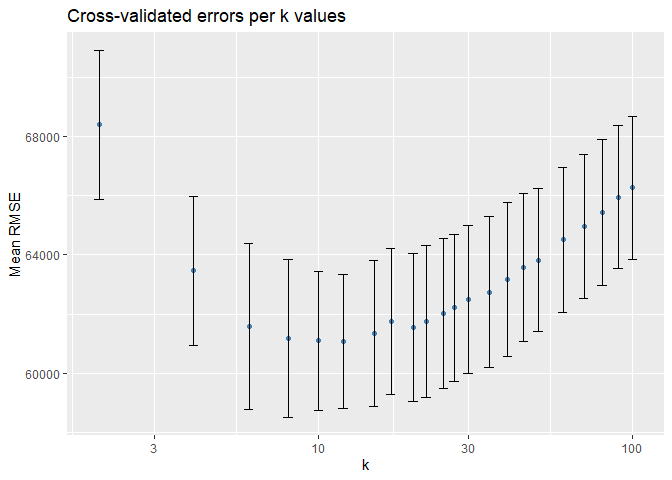
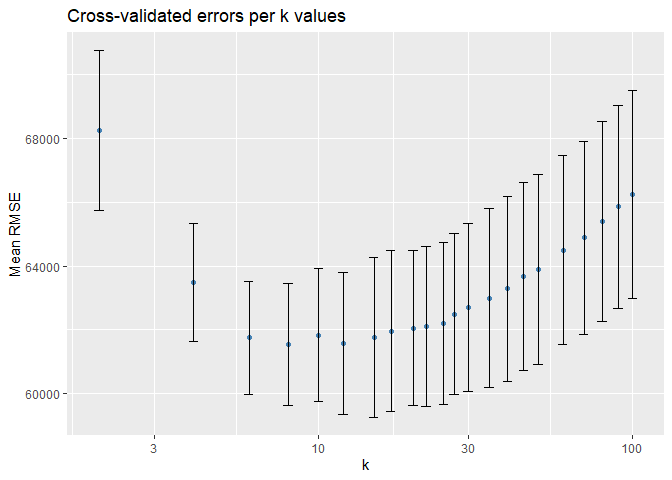
question 1 update

diff --git a/Homework-2/PS2.md b/Homework-2/PS2.md
@@ -19,9 +19,11 @@ prediction model of house prices:
 
 -   Linear model: This approach try to estimate coefficients for the
     following linear model
-    *p**r**i**c**e* = *β*<sub>0</sub> + *β*<sub>1</sub>*x*<sub>1</sub> + .... + *β*<sub>1</sub>*x*<sub>*p*</sub> + *u*
-    where (*x*<sub>1</sub>,...,*x*<sub>*p*</sub>) are houses features
-    plus transformations and interactions of this features.
+
+*p**r**i**c**e* = *β*<sub>0</sub> + *β*<sub>1</sub>*x*<sub>1</sub> + .... + *β*<sub>1</sub>*x*<sub>*p*</sub> + *u*
+
+where (*x*<sub>1</sub>,...,*x*<sub>*p*</sub>) are houses features plus
+transformations and interactions of this features.
 
 -   K-nearest neighbors regression: In this method, given a value for K
     and a set of values for the features
@@ -45,12 +47,12 @@ evaluated by checking the root mean square error (RMSE).
 
 Among the K-nearest neighbors regressions, the k-value associated with
 the lowest cross-validated error (mean of the Root Mean Squared Error)
-is k=10. The cross-validated error for k=10 is $61,968 with a standard
-error of 1,667 dollars.
+is k=10. The cross-validated error for k=10 is $61,010 with a standard
+error of 1,384 dollars.
 
 That last result compares poorly against the cross-validated error of
 the best linear model. In the case of this linear model, the cross
-validated error is $56,669 with a standard error of 1,451 dollars.
+validated error is $57,068 with a standard error of 1,903 dollars.
 
 In conclusion, the results have shown that the linear model has the best
 performance among these two methods according to the k-fold cross
@@ -149,48 +151,29 @@ as the one with lowest cross-validated errors. The best linear model has
 43 coefficients and the following table presents the estimated
 coefficients for this model.
 
-                       (Intercept) | lotSize |  
-                      1.339703e+05 | -2.434482e+03 |  
-                          bedrooms | fuelelectric |  
-                      5.579980e+03 | -2.523318e+04 |  
-                           fueloil | newConstructionNo |  
-                      3.914479e+04 | 3.214339e+04 |  
-                      centralAirNo | waterfrontNo |  
-                     -1.349244e+04 | -9.738634e+04 |  
-                             rooms | fireplaces |  
-                      2.470676e+03 | 1.892046e+04 |  
-                        livingArea | pctCollege |  
-                      5.868298e+01 | -4.862284e+02 |  
-                               age | bathrooms |  
-                     -2.081983e+03 | 1.363895e+04 |  
-            heatinghot water/steam | heatingelectric |  
-                      2.707111e+04 | 6.345186e+03 |  
-                              age2 | I(age^2) |  
-                     -3.882054e+04 | -2.508183e+00 |  
-                  lotSize:bedrooms | lotSize:fuelelectric |  
-                      4.384200e+03 | 6.889665e+03 |  
-                   lotSize:fueloil | bedrooms:fuelelectric |  
-                     -2.395283e+03 | 6.277175e+03 |  
-                  bedrooms:fueloil | rooms:livingArea |  
-                     -1.274805e+04 | 1.764660e+00 |  
-                    bedrooms:rooms | fireplaces:landValue |  
-                     -1.181118e+03 | -2.466258e-01 |  
-             livingArea:fireplaces | fireplaces:pctCollege |  
-                      1.529200e+01 | -5.747540e+02 |  
-              livingArea:landValue | livingArea:heatinghot water/steam
-|  
-                     -2.689740e-04 | -1.917907e+01 |  
-        livingArea:heatingelectric | landValue:pctCollege |  
-                     -1.232713e+01 | 1.334857e-02 |  
-                    pctCollege:age | age:sewerpublic/commercial |  
-                      1.427984e+01 | 3.632516e+02 |  
-                     age:sewernone | landValue:bathrooms |  
-                      3.994448e+03 | 2.855780e-01 |  
-  sewerpublic/commercial:bathrooms | sewernone:bathrooms |  
-                     -4.912088e+03 | -1.701781e+04 |  
-                         age:age2 | lotSize:landValue |  
-                      1.546965e+03 | -1.263039e-01 |
-
+|:———————————-:|:———————————-:|  
+| (Intercept) | lotSize | | 1.339703e+05 | -2.434482e+03 | | bedrooms |
+fuelelectric | | 5.579980e+03 | -2.523318e+04 | | fueloil |
+newConstructionNo | | 3.914479e+04 | 3.214339e+04 | | centralAirNo |
+waterfrontNo | | -1.349244e+04 | -9.738634e+04 | | rooms | fireplaces |
+| 2.470676e+03 | 1.892046e+04 | | livingArea | pctCollege | |
+5.868298e+01 | -4.862284e+02 | | age | bathrooms | | -2.081983e+03 |
+1.363895e+04 | | heatinghot water/steam | heatingelectric | |
+2.707111e+04 | 6.345186e+03 | | age2 | I(age^2) | | -3.882054e+04 |
+-2.508183e+00 | | lotSize:bedrooms | lotSize:fuelelectric | |
+4.384200e+03 | 6.889665e+03 | | lotSize:fueloil | bedrooms:fuelelectric
+| | -2.395283e+03 | 6.277175e+03 | | bedrooms:fueloil | rooms:livingArea
+| | -1.274805e+04 | 1.764660e+00 | | bedrooms:rooms |
+fireplaces:landValue | | -1.181118e+03 | -2.466258e-01 | |
+livingArea:fireplaces | fireplaces:pctCollege | | 1.529200e+01 |
+-5.747540e+02 | | livingArea:landValue | livingArea:heatinghot
+water/steam | | -2.689740e-04 | -1.917907e+01 | |
+livingArea:heatingelectric | landValue:pctCollege | | -1.232713e+01 |
+1.334857e-02 | | pctCollege:age | age:sewerpublic/commercial | |
+1.427984e+01 | 3.632516e+02 | | age:sewernone | landValue:bathrooms | |
+3.994448e+03 | 2.855780e-01 | | sewerpublic/commercial:bathrooms |
+sewernone:bathrooms | | -4.912088e+03 | -1.701781e+04 | | age:age2 |
+lotSize:landValue | | 1.546965e+03 | -1.263039e-01 |
 |centralAirNo:heatinghot water/steam | centralAirNo:heatingelectric | |
 1.796120e+03 | 1.767431e+04 | | newConstructionNo:landValue | | |
 3.866956e-01 | |
